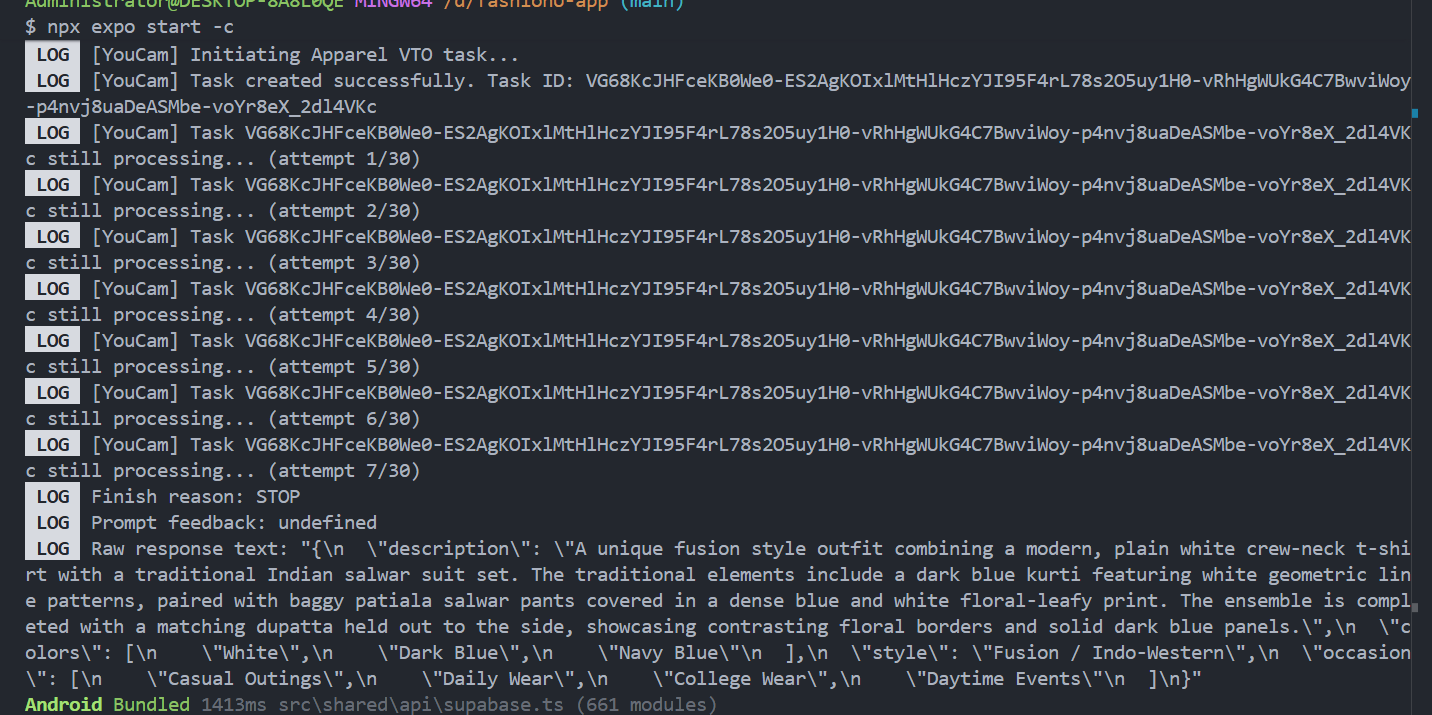
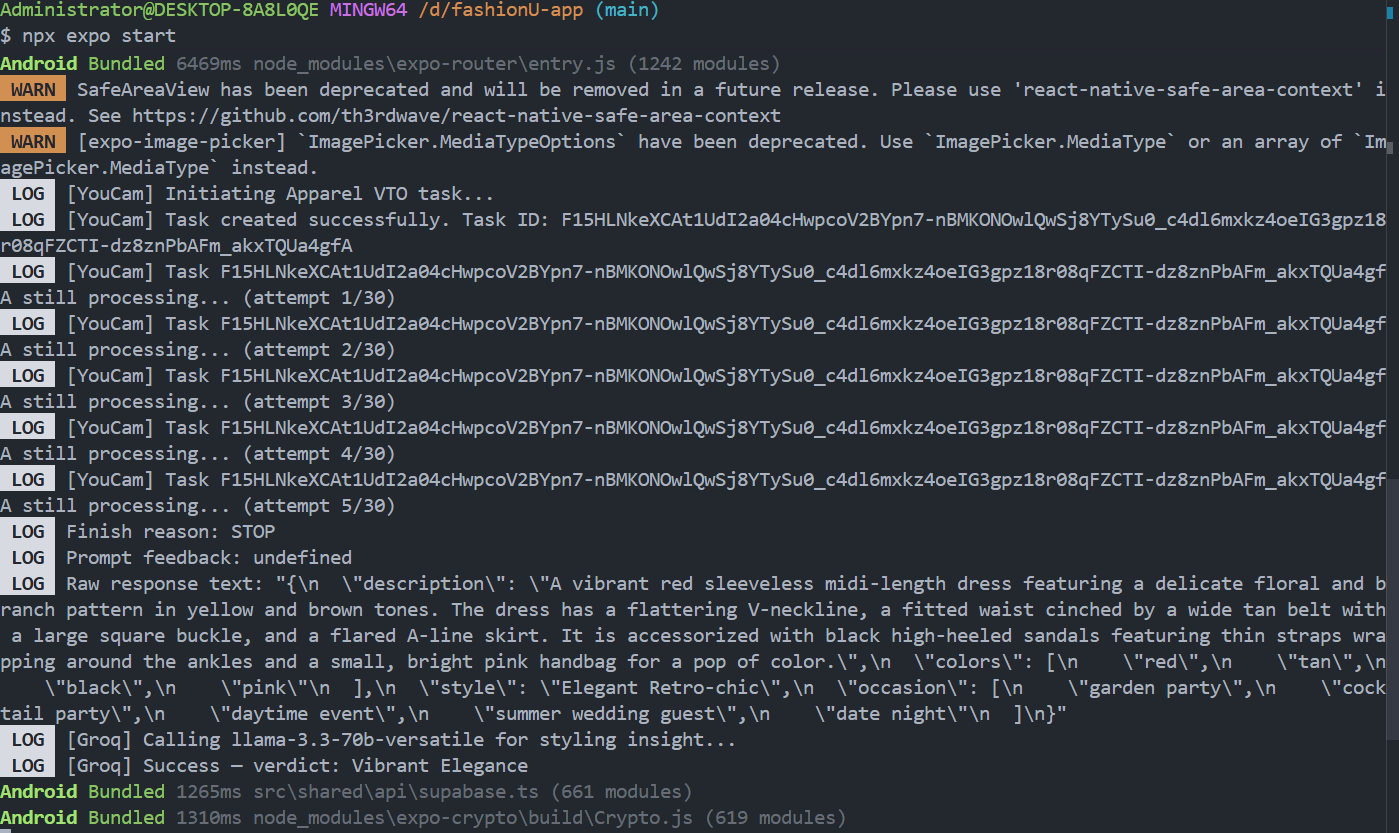
feat(saved-looks): persistent VTO history screen + Groq observability
VTO result persistence:
- Add rehostImageToStorage() in supabase.ts: downloads presigned YouCam result URLs (~2h expiry) and re-uploads them to the public user-photos bucket so saved looks never render as broken images later
- Wire it into AnalysisScreen (step 4); saveLook() now persists the permanent Supabase URL instead of the expiring presigned URL

Saved looks screen:
- Add SavedLooksScreen under src/features/saved/ with a thin Expo Router stub at src/app/saved-looks.tsx, per the feature-based folder pattern
- Query saved_looks with explicit column select (omits the 3072-dim embedding payload), ordered created_at desc, refetched on focus via
  useFocusEffect so fresh saves appear immediately
- Render rehosted VTO image cards with occasion/body-shape pills, plus an empty-state CTA back into the photo-upload flow

AI pipeline observability:
- Log [Groq] request + success in generateStylingInsight — Groq was succeeding silently, which made terminal logs look Gemini-only
- Harden Groq fallback: align with gemini.ts on gemini-3.5-flash with forced responseMimeType JSON, replacing stale gemini-1.5-flash-latest

Changed region(s): [[0.0, 0.0, 1.0, 1.0], [0.9836, 0.0, 1.0, 0.0308]]

diff --git a/src/features/saved/SavedLooksScreen.tsx b/src/features/saved/SavedLooksScreen.tsx
@@ -1,0 +1,230 @@
+import {
+    borderRadius,
+    colors,
+    fontSize,
+    fontWeight,
+    shadows,
+    spacing,
+} from "@/constants/theme";
+import { supabase } from "@/shared/api/supabase";
+import { Ionicons } from "@expo/vector-icons";
+import { useFocusEffect, useRouter } from "expo-router";
+import React, { useCallback, useState } from "react";
+import {
+    ActivityIndicator,
+    FlatList,
+    Image,
+    SafeAreaView,
+    StyleSheet,
+    Text,
+    TouchableOpacity,
+    View,
+} from "react-native";
+
+interface SavedLook {
+  id: string;
+  outfit_id: string;
+  body_shape: string | null;
+  occasion: string | null;
+  vto_image_url: string | null;
+  styling_insight: string | null;
+  created_at: string;
+}
+
+export default function SavedLooksScreen() {
+  const router = useRouter();
+  const [looks, setLooks] = useState<SavedLook[]>([]);
+  const [loading, setLoading] = useState(true);
+
+  const fetchLooks = useCallback(async () => {
+    setLoading(true);
+    // Select explicit columns — never pull the 3072-dim embedding over the wire
+    const { data, error } = await supabase
+      .from("saved_looks")
+      .select(
+        "id, outfit_id, body_shape, occasion, vto_image_url, styling_insight, created_at",
+      )
+      .order("created_at", { ascending: false });
+
+    if (error) {
+      console.error("Failed to load saved looks:", error);
+    } else {
+      setLooks((data as SavedLook[]) ?? []);
+    }
+    setLoading(false);
+  }, []);
+
+  // Refetch on every focus so a fresh save appears immediately
+  useFocusEffect(
+    useCallback(() => {
+      fetchLooks();
+    }, [fetchLooks]),
+  );
+
+  const renderItem = ({ item }: { item: SavedLook }) => (
+    <View style={styles.card}>
+      {item.vto_image_url ? (
+        <Image source={{ uri: item.vto_image_url }} style={styles.cardImage} />
+      ) : (
+        <View style={[styles.cardImage, styles.cardImagePlaceholder]}>
+          <Ionicons name="image-outline" size={40} color={colors.border} />
+        </View>
+      )}
+      <View style={styles.cardBody}>
+        <Text style={styles.cardVerdict} numberOfLines={3}>
+          {item.styling_insight || "Saved look"}
+        </Text>
+        <View style={styles.cardMeta}>
+          {item.occasion ? (
+            <View style={styles.metaPill}>
+              <Text style={styles.metaText}>{item.occasion}</Text>
+            </View>
+          ) : null}
+          {item.body_shape ? (
+            <View style={styles.metaPill}>
+              <Text style={styles.metaText}>{item.body_shape}</Text>
+            </View>
+          ) : null}
+        </View>
+        <Text style={styles.cardDate}>
+          {new Date(item.created_at).toLocaleDateString()}
+        </Text>
+      </View>
+    </View>
+  );
+
+  return (
+    <SafeAreaView style={styles.container}>
+      <View style={styles.header}>
+        <TouchableOpacity
+          style={styles.backButton}
+          onPress={() => router.back()}
+          hitSlop={{ top: 10, bottom: 10, left: 10, right: 10 }}
+        >
+          <Ionicons name="arrow-back" size={24} color={colors.primary} />
+        </TouchableOpacity>
+        <Text style={styles.headerTitle}>Saved Looks</Text>
+        <View style={styles.backButton} />
+      </View>
+
+      {loading ? (
+        <View style={styles.centered}>
+          <ActivityIndicator size="large" color={colors.primary} />
+        </View>
+      ) : looks.length === 0 ? (
+        <View style={styles.centered}>
+          <Ionicons name="heart-outline" size={56} color={colors.border} />
+          <Text style={styles.emptyTitle}>No saved looks yet</Text>
+          <Text style={styles.emptyBody}>
+            Analyze an outfit and it will appear here automatically.
+          </Text>
+          <TouchableOpacity
+            style={styles.emptyCta}
+            onPress={() => router.push("/photo-upload")}
+          >
+            <Text style={styles.emptyCtaText}>Try a Look</Text>
+          </TouchableOpacity>
+        </View>
+      ) : (
+        <FlatList
+          data={looks}
+          keyExtractor={(item) => String(item.id)}
+          renderItem={renderItem}
+          contentContainerStyle={styles.listContent}
+          showsVerticalScrollIndicator={false}
+        />
+      )}
+    </SafeAreaView>
+  );
+}
+
+const styles = StyleSheet.create({
+  container: { flex: 1, backgroundColor: colors.background },
+  header: {
+    flexDirection: "row",
+    alignItems: "center",
+    justifyContent: "space-between",
+    paddingHorizontal: spacing.lg,
+    paddingVertical: spacing.md,
+    borderBottomWidth: 1,
+    borderBottomColor: colors.border,
+  },
+  backButton: { padding: spacing.xs },
+  headerTitle: {
+    fontSize: fontSize.lg,
+    fontWeight: fontWeight.semibold,
+    color: colors.primary,
+  },
+  centered: {
+    flex: 1,
+    alignItems: "center",
+    justifyContent: "center",
+    padding: spacing.xl,
+  },
+  listContent: { padding: spacing.lg, paddingBottom: spacing.xxl },
+  card: {
+    backgroundColor: colors.background,
+    borderRadius: borderRadius.lg,
+    overflow: "hidden",
+    marginBottom: spacing.lg,
+    borderWidth: 1,
+    borderColor: colors.border,
+    ...shadows.md,
+  },
+  cardImage: { width: "100%", aspectRatio: 3 / 4 },
+  cardImagePlaceholder: {
+    alignItems: "center",
+    justifyContent: "center",
+    backgroundColor: colors.backgroundAlt,
+  },
+  cardBody: { padding: spacing.md },
+  cardVerdict: {
+    fontSize: fontSize.body,
+    fontWeight: fontWeight.medium,
+    color: colors.textSecondary,
+    lineHeight: 22,
+  },
+  cardMeta: { flexDirection: "row", flexWrap: "wrap", marginTop: spacing.sm },
+  metaPill: {
+    backgroundColor: colors.secondary,
+    paddingHorizontal: spacing.md,
+    paddingVertical: spacing.xs,
+    borderRadius: borderRadius.full,
+    marginRight: spacing.sm,
+    marginBottom: spacing.xs,
+  },
+  metaText: {
+    fontSize: fontSize.bodySmall,
+    fontWeight: fontWeight.medium,
+    color: colors.primaryDark,
+  },
+  cardDate: {
+    marginTop: spacing.sm,
+    fontSize: fontSize.bodySmall,
+    color: colors.textSecondary,
+  },
+  emptyTitle: {
+    marginTop: spacing.md,
+    fontSize: fontSize.lg,
+    fontWeight: fontWeight.semibold,
+    color: colors.primary,
+  },
+  emptyBody: {
+    marginTop: spacing.sm,
+    fontSize: fontSize.body,
+    color: colors.textSecondary,
+    textAlign: "center",
+  },
+  emptyCta: {
+    marginTop: spacing.lg,
+    backgroundColor: colors.primary,
+    paddingHorizontal: spacing.xl,
+    paddingVertical: spacing.md,
+    borderRadius: borderRadius.lg,
+  },
+  emptyCtaText: {
+    color: colors.white,
+    fontSize: fontSize.button,
+    fontWeight: fontWeight.semibold,
+  },
+});

diff --git a/src/features/outfit-browse/garments.ts b/src/features/outfit-browse/garments.ts
@@ -1,44 +1,46 @@
 export interface Garment {
   id: string;
   name: string;
-  imageUrl: string; // must be a publicly reachable URL — YouCam fetches this server-side
+  imageUrl: string;
   category: "upper_body" | "lower_body" | "full_body" | "auto";
   occasionTags: string[];
 }
 
-// ⚠ Only garment-001's imageUrl is confirmed reachable (used in the
-// successful YouCam test run on Aug 2). Replace 002-004 with real,
-// publicly hosted garment photos before relying on them — ideally
-// uploaded to your own Supabase `user-photos`-style bucket rather
-// than hotlinked from Unsplash.
 export const GARMENT_CATALOGUE: Garment[] = [
   {
     id: "garment-001",
-    name: "Casual Top",
+    name: "Casual White Tee",
+    // Verified working in your previous test
     imageUrl:
-      "https://images.unsplash.com/photo-1521572163474-6864f9cf17ab?w=500",
+      "https://images.unsplash.com/photo-1521572163474-6864f9cf17ab?w=500&q=80",
     category: "upper_body",
-    occasionTags: ["casual"],
+    occasionTags: ["casual", "daily"],
   },
   {
     id: "garment-002",
-    name: "Formal Dress",
-    imageUrl: "REPLACE_WITH_REAL_HOSTED_URL",
+    name: "Elegant Evening Gown",
+    // A full body dress image
+    imageUrl:
+      "https://images.unsplash.com/photo-1595777457583-95e059d581b8?w=500&q=80",
     category: "full_body",
     occasionTags: ["formal", "party", "date_night"],
   },
   {
     id: "garment-003",
-    name: "Work Blazer",
-    imageUrl: "REPLACE_WITH_REAL_HOSTED_URL",
+    name: "Professional Blazer",
+    // A blazer/jacket image
+    imageUrl:
+      "https://images.unsplash.com/photo-1591047139829-d91aecb6caea?w=500&q=80",
     category: "upper_body",
-    occasionTags: ["work"],
+    occasionTags: ["work", "formal"],
   },
   {
     id: "garment-004",
-    name: "Vacation Set",
-    imageUrl: "REPLACE_WITH_REAL_HOSTED_URL",
-    category: "auto",
-    occasionTags: ["vacation"],
+    name: "Summer Floral Dress",
+    // A casual full body dress
+    imageUrl:
+      "https://images.unsplash.com/photo-1572804013309-59a88b7e92f1?w=500&q=80",
+    category: "full_body",
+    occasionTags: ["vacation", "casual"],
   },
 ];

diff --git a/src/shared/api/groq.ts b/src/shared/api/groq.ts
@@ -49,6 +49,10 @@ Provide your analysis in this exact JSON format:
   ${bodyShape ? `"bodyShapeAdvice": "Specific advice for ${bodyShape} body shape regarding this silhouette"` : ""}
 }`;
 
+    console.log(
+      "[Groq] Calling llama-3.3-70b-versatile for styling insight...",
+    );
+
     const response = await fetch(GROQ_API_URL, {
       method: "POST",
       headers: {
@@ -79,6 +83,7 @@ Provide your analysis in this exact JSON format:
     }
 
     const parsed: StylingInsight = JSON.parse(content);
+    console.log("[Groq] Success — verdict:", parsed.styleVerdict);
     return parsed;
   } catch (error) {
     console.error("Groq styling insight error:", error);
@@ -100,7 +105,7 @@ export async function generateStylingInsightFallback(
     const genAI = new GoogleGenerativeAI(API_KEY!);
 
     const model = genAI.getGenerativeModel({
-      model: "gemini-1.5-flash-latest",
+      model: "gemini-3.5-flash",
     });
 
     const prompt = `You are an expert fashion stylist. Analyze this outfit:

diff --git a/src/app/saved-looks.tsx b/src/app/saved-looks.tsx
@@ -1,0 +1,2 @@
+export { default } from "@/features/saved/SavedLooksScreen";
+
